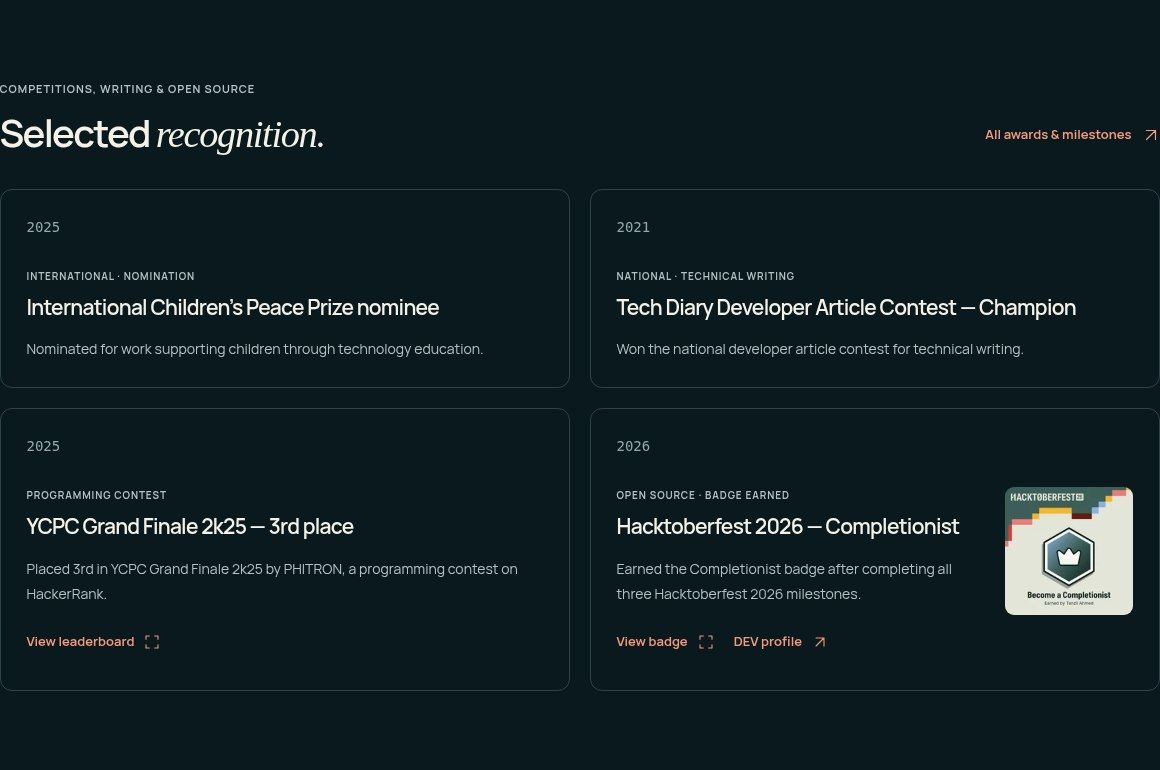
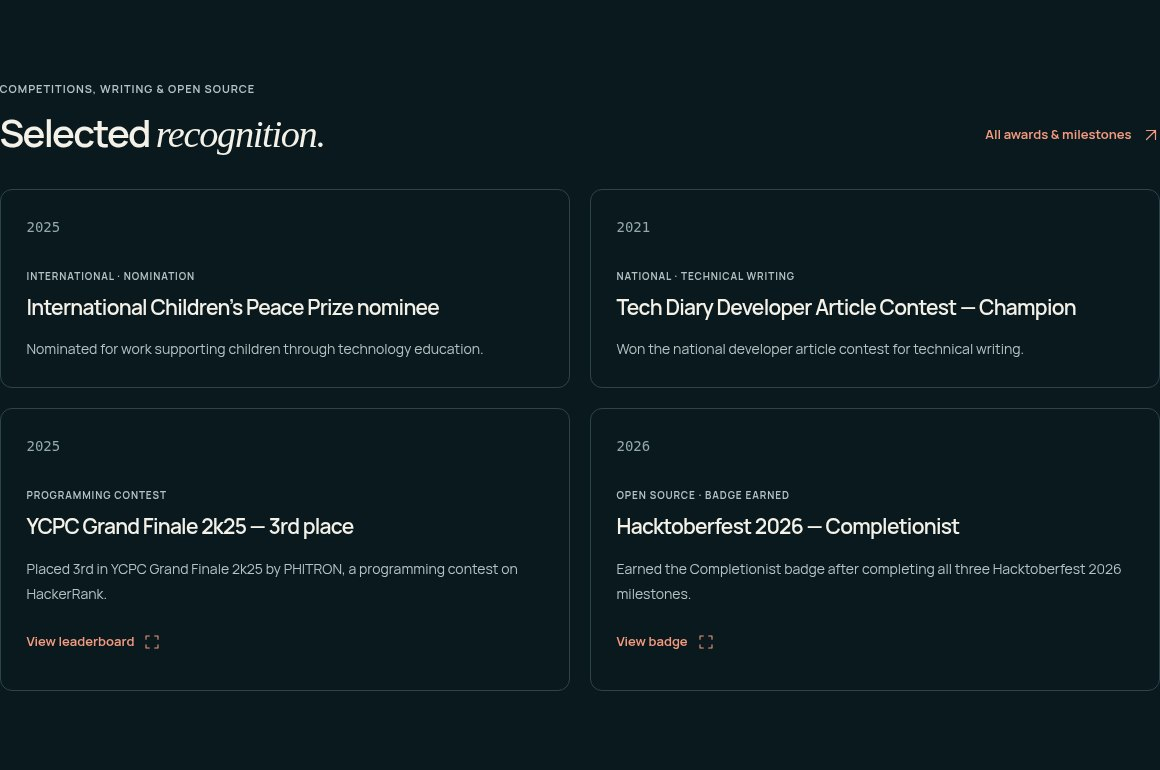
Keep Completionist recognition text-only with a badge proof link

Changed region(s): [[0.8379, 0.6234, 0.9931, 0.8104], [0.5276, 0.7481, 0.7448, 0.7792], [0.6207, 0.8104, 0.7138, 0.8416]]

diff --git a/tests/browser/recognition.spec.ts b/tests/browser/recognition.spec.ts
@@ -7,12 +7,10 @@ test('recognition shares the real badge, contest proof and leadership session ac
     const badge = page.locator('[data-recognition="hacktoberfest-2026"]');
     await expect(badge.getByRole('heading')).toHaveText('Hacktoberfest 2026 — Completionist');
     await expect(badge).toContainText('all three Hacktoberfest 2026 milestones');
-    const image = badge.getByRole('img');
-    await expect(image).toHaveAttribute('alt', /Completionist badge, earned by Tanzil Ahmed/);
-    const source = await image.getAttribute('src');
-    if (badgeSource) expect(source).toBe(badgeSource); else badgeSource = source;
-    await expect(badge.getByRole('link', { name: 'DEV profile' })).toHaveAttribute('href', 'https://dev.to/tanzil_ahmed_e6a826eee8c4');
-    const proof = (await badge.getByRole('link', { name: 'View badge' }).getAttribute('href'))!;
+    await expect(badge.getByRole('img')).toHaveCount(0);
+    await expect(badge.getByRole('link')).toHaveCount(1);
+    const proof = (await badge.getByRole('link', { name: 'View badge', exact: true }).getAttribute('href'))!;
+    if (badgeSource) expect(proof).toBe(badgeSource); else badgeSource = proof;
     const response = await request.get(proof);
     expect(response.status()).toBe(200); expect(response.headers()['content-type']).toContain('image/webp');
     if (route !== '/open-source/') {

diff --git a/docs/VERIFICATION.md b/docs/VERIFICATION.md
@@ -2,14 +2,15 @@
 
 Verified October 24, 2026 (UTC), on the production preview. This record covers YCPC/Completionist recognition evidence, the former club presidency session and the compact desktop footer revision. Publication status is separate from local checks.
 
+- Latest content-only refinement: Completionist is text-only on Home, About and Open source, with exactly one View badge link, no inline image and no DEV profile action. Check (57 files), build (21 HTML pages), all 11 output/content/rule checks, authoring fixtures and both targeted recognition/footer browser tests passed. Desktop/mobile previews in dark/light were refreshed. Shared layout/game code is unchanged; the previous full 79-test browser run below predates this refinement.
 - Existing locked dependencies were reused; no package or lockfile changes. The earlier frozen reinstall passed; it was not repeated for this revision.
 - `npm run check`: 57 files; zero errors, warnings or hints.
 - `npm run build`: 21 static HTML pages plus RSS, sitemap and local assets.
 - `npm test`: all 11 checks passed. Includes generated links/fragments/assets, metadata/sitemap/private-data/destination checks, editable Play schema, all Tic-tac-toe win/draw rules, exhaustive human continuations against Hard as X and O, nonmutating AI decisions, tower left/right overlap and tiny-slice loss, perfect snaps/recovery, 30/60/120Hz motion equivalence, paused/Step immobility and 1,000-level history/width bounds.
 - `npm run test:authoring`: project/image/contribution fixtures, original/external writing and dates, metadata/feed/sitemap, shared activity/photo updates and captions, recognition summaries/badge images/link labels updated from one file across Home/About/Open source, Home previews and draft exclusion passed. Fixtures were removed and the original site rebuilt before browser checks.
-- `npm run test:browser`: all 79 tests passed in the final full run. Both-theme WCAG A/AA automated checks cover representative pages, the Play landing and all five active game surfaces. All 21 routes fit 320/360/390/768/800/1024/1440px without horizontal overflow; existing project-cover title checks remain. Existing navigation, theme/storage fallback, no-JavaScript reading/navigation, project/contribution/writing journeys, gallery/keyboard/modal/focus, equal photo frames, lightweight scrolling and reading-progress checks passed.
-- Recognition/footer checks: YCPC Grand Finale 2k25 third place and the owner-supplied leaderboard proof appear on Home/About. The real 2026 Completionist badge, all-three-milestone description, full-image proof and clean DEV profile URL share one source across Home/About/Open source. Native proof URLs return optimized WebP images. Home contains four highlights. Former President of Faizur Rahman Ideal Institute Debating Club and the 2022–23 session appear through the shared Home/Activities content. Desktop copyright is centered independently of the logo/social widths at 800/1024/1440px in both themes; 320/390px checks retain the mobile identity stack and prevent overflow. Desktop Home footer height is below 400px.
-- Source evidence: used the two supplied screenshots and the owner's stated recognition/role. DEV's supplied profile URL is stored without email/analytics parameters; its external availability is not part of local checks. Raw supplied files remain byte-identical in src/assets/recognition; the built site references generated WebP proofs and 128/192/256px badge sizes. No badge artwork or ranking data was synthesized.
+- `npm run test:browser`: the previous recognition revision passed all 79 tests in its full run. Both-theme WCAG A/AA automated checks cover representative pages, the Play landing and all five active game surfaces. All 21 routes fit 320/360/390/768/800/1024/1440px without horizontal overflow; existing project-cover title checks remain. Existing navigation, theme/storage fallback, no-JavaScript reading/navigation, project/contribution/writing journeys, gallery/keyboard/modal/focus, equal photo frames, lightweight scrolling and reading-progress checks passed.
+- Recognition/footer checks: YCPC Grand Finale 2k25 third place and the owner-supplied leaderboard proof appear on Home/About. The 2026 Completionist title, all-three-milestone description and View badge proof link share one source across Home/About/Open source; the latest refinement removes the inline image and DEV profile action. Native proof URLs return optimized WebP images. Home contains four highlights. Former President of Faizur Rahman Ideal Institute Debating Club and the 2022–23 session appear through the shared Home/Activities content. Desktop copyright is centered independently of the logo/social widths at 800/1024/1440px in both themes; 320/390px checks retain the mobile identity stack and prevent overflow. Desktop Home footer height is below 400px.
+- Source evidence: used the two supplied screenshots and the owner's stated recognition/role. The supplied badge remains available through its local proof link; the DEV profile action has been removed. Raw supplied files remain byte-identical in src/assets/recognition; the published entries now reference generated full-size WebP proofs only; inline badge sizing remains supported for future content and authoring fixtures. No badge artwork or ranking data was synthesized.
 - Tic-tac-toe browser checks: keyboard/touch/local wins and draws, one-time result counting, fixed board dimensions, winning line/replay, stored/reset scores, Easy/Hard separation, personal scores across X/O changes, computer turn gating, canceled pending turns/settings/new-round races and reduced-motion marks. Device storage is tested blocked and malformed. Hard's no-loss result is covered separately by exhaustive rule tests.
 - Stack Tower browser checks: actual moving canvas, pause/offscreen/explicit resume, live reduced-motion change, default Step mode, keyboard perfect landings, trimming, loss/replay, mode-specific best persistence, blocked/corrupt storage and actual mobile tap/swipe input. Scrolling never drops a block; untimed Step controls remain usable after scrolling. Timed play pauses out of view. Ready/paused/Step states have no game animation loop; falling pieces and history are bounded by implementation and rule tests.
 - Corner checks: viewport-sized decorative stage, at most 28 particles (20 on mobile), multi-second native animation timing, stable URL/content/control position and focus, no visible popup/tooltip, pointer transparency and a real footer-link click during an effect, rapid replacement, Escape/automatic cleanup, static reduced-motion reactions, failed lazy chunk and menu/gallery/game-focus suppression. No sound or idle render loop is added.
@@ -39,7 +40,7 @@ Accessible-name mismatches were corrected and the final Lighthouse report listed
 
 ## Publication
 
-The recognition/leadership/compact-footer revision uses the checked master workflow; consult Actions for its deployment status. The preceding Tic-tac-toe/Stack Tower revision deployed successfully in run [40070060201](https://github.com/tanzilamd/tanzilamd.github.io/actions/runs/40070060201) for commit `18ac32c`. The preceding dedicated-game/footer/corner revision deployed successfully in run [40038361854](https://github.com/tanzilamd/tanzilamd.github.io/actions/runs/40038361854) for commit `7f15397`. The preceding Play revision deployed successfully in run [40034150096](https://github.com/tanzilamd/tanzilamd.github.io/actions/runs/40034150096) for commit `9fd6242`. The preceding equal-gallery/lightweight-scroll revision deployed successfully in run [40028927236](https://github.com/tanzilamd/tanzilamd.github.io/actions/runs/40028927236) for commit `f31d518`. The preceding motion/photo-story revision deployed successfully in run [40026600339](https://github.com/tanzilamd/tanzilamd.github.io/actions/runs/40026600339) for commit `8c70ec2`.
+The Completionist link-only revision uses the checked master workflow; consult Actions for its deployment status. The preceding recognition/leadership/compact-footer revision deployed successfully in run [40072917442](https://github.com/tanzilamd/tanzilamd.github.io/actions/runs/40072917442) for commit `553ff1b`. The preceding Tic-tac-toe/Stack Tower revision deployed successfully in run [40070060201](https://github.com/tanzilamd/tanzilamd.github.io/actions/runs/40070060201) for commit `18ac32c`. The preceding dedicated-game/footer/corner revision deployed successfully in run [40038361854](https://github.com/tanzilamd/tanzilamd.github.io/actions/runs/40038361854) for commit `7f15397`. The preceding Play revision deployed successfully in run [40034150096](https://github.com/tanzilamd/tanzilamd.github.io/actions/runs/40034150096) for commit `9fd6242`. The preceding equal-gallery/lightweight-scroll revision deployed successfully in run [40028927236](https://github.com/tanzilamd/tanzilamd.github.io/actions/runs/40028927236) for commit `f31d518`. The preceding motion/photo-story revision deployed successfully in run [40026600339](https://github.com/tanzilamd/tanzilamd.github.io/actions/runs/40026600339) for commit `8c70ec2`.
 
 The owner’s activity-content update deployed successfully in run [40018102876](https://github.com/tanzilamd/tanzilamd.github.io/actions/runs/40018102876) for commit `6e82447`. The October 24 image optimization deployed successfully in run [40021022175](https://github.com/tanzilamd/tanzilamd.github.io/actions/runs/40021022175) for commit `85b4109`.
 

diff --git a/docs/CONTENT-GUIDE.md b/docs/CONTENT-GUIDE.md
@@ -99,12 +99,10 @@ Matching template copy করে matching folder-এ নতুন `.md` file ব
 "image": "../../assets/recognition/hacktoberfest-completionist-2026.png",
 "imageAlt": "Hacktoberfest 2026 Completionist badge, earned by Tanzil Ahmed.",
 "imageLabel": "View badge",
-"imagePresentation": "badge",
-"url": "https://dev.to/tanzil_ahmed_e6a826eee8c4",
-"urlLabel": "DEV profile"
+"imagePresentation": "evidence"
 ```
 
-এগুলো বিদ্যমান JSON object-এর অন্য field-এর সঙ্গে comma দিয়ে যোগ করবেন। `imagePresentation: "badge"` হলে ছোট artwork ও full-image link দেখা যায়। `"evidence"` দিলে শুধু proof image-এর link থাকে—YCPC leaderboard-এর মতো screenshot-এর জন্য ভালো। Default `evidence`। ছবি থাকলে অর্থপূর্ণ `imageAlt` লাগবেই; `imageLabel` দিয়ে “View badge” বা “View leaderboard” লিখতে পারেন। Website link-এর লেখা `urlLabel` দিয়ে বদলানো যায়। Source path হলো milestone file থেকে relative; `/media/` path-এর সঙ্গে গুলিয়ে ফেলবেন না।
+এগুলো বিদ্যমান JSON object-এর অন্য field-এর সঙ্গে comma দিয়ে যোগ করবেন। `imagePresentation: "badge"` হলে ছোট artwork ও full-image link দেখা যায়। `"evidence"` দিলে শুধু proof image-এর link থাকে—YCPC leaderboard-এর মতো screenshot-এর জন্য ভালো। Default `evidence`। বর্তমান Completionist item-এ এটাই আছে: inline ছবি বা DEV profile option নেই, শুধু **View badge**। ছবি থাকলে অর্থপূর্ণ `imageAlt` লাগবেই; `imageLabel` দিয়ে “View badge” বা “View leaderboard” লিখতে পারেন। Website link-এর লেখা `urlLabel` দিয়ে বদলানো যায়। Source path হলো milestone file থেকে relative; `/media/` path-এর সঙ্গে গুলিয়ে ফেলবেন না।
 
 Build নিজে responsive WebP badge images ও full proof তৈরি করে। ছবি পাল্টালে শুধু নতুন file upload করে ওই milestone-এর path/alt বদলালেই হবে; Home/About/Open source আলাদা edit লাগে না। Email বা analytics-এর tracking parameters ছাড়া clean public URL দিন। Nomination, badge ও contest position-এর ভাষা আলাদা রাখুন।
 

diff --git a/README.md b/README.md
@@ -41,7 +41,7 @@ Draft content is excluded from generated pages, RSS and sitemap. A public Git re
 
 - Projects: first four published `featured: true` entries, sorted by `order`. Current selection: Tuktak, ScopeProof, EngJatra and Choreseed. Cargotab/Tanzilbot stay under Earlier work.
 - Contributions: up to three featured entries. A `spotlight: true` entry also receives a detailed Open source feature; Tabbycat’s published website work links to its source and upstream integration.
-- Recognition: up to four featured milestones in a two-column desktop grid. All awards and work experience appear on About; Hacktoberfest milestones also appear under Open source. Optional local badge artwork and proof-image links come from the same milestone file. Current highlights include YCPC Grand Finale 2k25 (3rd place) and the Hacktoberfest 2026 Completionist badge.
+- Recognition: up to four featured milestones in a two-column desktop grid. All awards and work experience appear on About; Hacktoberfest milestones also appear under Open source. Optional local badge artwork and proof-image links come from the same milestone file. Current highlights include YCPC Grand Finale 2k25 (3rd place) and Hacktoberfest 2026 Completionist. The Completionist entry uses the same text-only layout as other recognition, with a single **View badge** proof link.
 - Activities: featured entries appear on Home; all published activities appear under Activities. Edit one activity’s summary once to update both views.
 - Activity photos: add `gallery` entries to the same activity file. Set `homePreview: true` to choose its first photo for the Home preview. Photos follow each activity’s description directly, with captions; optional demo entries show a small Demo badge. Captions support event/year/role; the full-image viewer supports keyboard navigation and works with direct image links without JavaScript. The current gallery uses owner-supplied event photographs, optimized as local WebP images. [Update photos using the guide](docs/CONTENT-GUIDE.md#activity-photos--আসল-ছবি-বসানো).
 - Writing: the first featured entry, or the latest entry when none is featured. About also shows the first featured personal essay. Writing itself sorts by publication date, then `order`.
@@ -54,7 +54,7 @@ The first Home visit in a tab has a brief wordmark/portrait entrance and a singl
 
 ![Theatre gallery with owner-supplied event photographs](docs/images/activities-dark.jpg)
 
-![Selected recognition with YCPC result and the owner-supplied Completionist badge](docs/images/recognition-dark.jpg)
+![Text-only recognition with YCPC result and a Completionist badge proof link](docs/images/recognition-dark.jpg)
 
 ### A little room to play
 

diff --git a/docs/UI-GUIDE.md b/docs/UI-GUIDE.md
@@ -39,7 +39,7 @@ The content container has a 1160px maximum width. Section spacing uses `--space-
 
 Home selects up to four featured milestones in a two-column desktop grid, retaining the Peace Prize nomination and Tech Diary writing result alongside YCPC 2025 third place and Hacktoberfest 2026 Completionist. Mobile uses one column. About lists all competition/recognition entries and separate open-source milestones. Open source reuses the same component rather than duplicating badge content.
 
-Milestone content optionally provides an Astro-managed local `image`, required `imageAlt`, `imageLabel`, `imagePresentation` (`badge` or default `evidence`) and external `urlLabel`. Badge presentation adds a small contain-fit image; evidence presentation keeps the full screenshot behind a native proof link. Generate responsive 128/192/256px WebP badge variants and a full-size optimized WebP proof without modifying the supplied evidence. Assets under `src/assets/recognition/` keep raw attachments out of the published asset directory; only generated derivatives are needed by the site. No modal/JavaScript is required for proof links. Keep exact recognition wording and accessible image descriptions, and strip email/analytics parameters from public profile links.
+Milestone content optionally provides an Astro-managed local `image`, required `imageAlt`, `imageLabel`, `imagePresentation` (`badge` or default `evidence`) and external `urlLabel`. Badge presentation adds a small contain-fit image; evidence presentation keeps the full screenshot behind a native proof link. Generate responsive 128/192/256px WebP badge variants and a full-size optimized WebP proof without modifying the supplied evidence. Assets under `src/assets/recognition/` keep raw attachments out of the published asset directory; only generated derivatives are needed by the site. The current Completionist entry uses evidence presentation with only a View badge link, no inline image or DEV profile action. No modal/JavaScript is required for proof links. Keep exact recognition wording and accessible image descriptions, and strip email/analytics parameters from public profile links.
 
 ## Play page
 

diff --git a/docs/RELEASE-NOTES.md b/docs/RELEASE-NOTES.md
@@ -4,6 +4,11 @@
 
 Responsive dark/light portfolio; new owner-supplied portrait; four selected projects and two earlier-work stories; eleven selected open-source records; About, Activities, Writing, Contact and 404; content templates; sitemap/metadata; self-hosted fonts; optimized images; GitHub Pages workflow; build, authoring, privacy/link and browser/accessibility checks.
 
+## October 24 Completionist text-only presentation
+
+- Removed the inline Completionist artwork and DEV profile action from Home, About and Open source through the single milestone file. Retained the title, explanation and working View badge proof link.
+- Updated the recognition browser check, maintenance guidance and README previews. Shared image support remains available for future content; other entries and footer layout are unchanged.
+
 ## October 24 recognition evidence, leadership session and footer spacing
 
 - Added YCPC Grand Finale 2k25 — 3rd place, with the owner-supplied HackerRank leaderboard proof.

diff --git a/src/content/milestones/hacktoberfest-2026.md b/src/content/milestones/hacktoberfest-2026.md
@@ -4,12 +4,10 @@
   "year": "2026",
   "summary": "Earned the Completionist badge after completing all three Hacktoberfest 2026 milestones.",
   "kind": "Open source · Badge earned",
-  "url": "https://dev.to/tanzil_ahmed_e6a826eee8c4",
-  "urlLabel": "DEV profile",
   "image": "../../assets/recognition/hacktoberfest-completionist-2026.png",
   "imageAlt": "Hacktoberfest 2026 Completionist badge, earned by Tanzil Ahmed.",
   "imageLabel": "View badge",
-  "imagePresentation": "badge",
+  "imagePresentation": "evidence",
   "featured": true,
   "order": 6
 }
